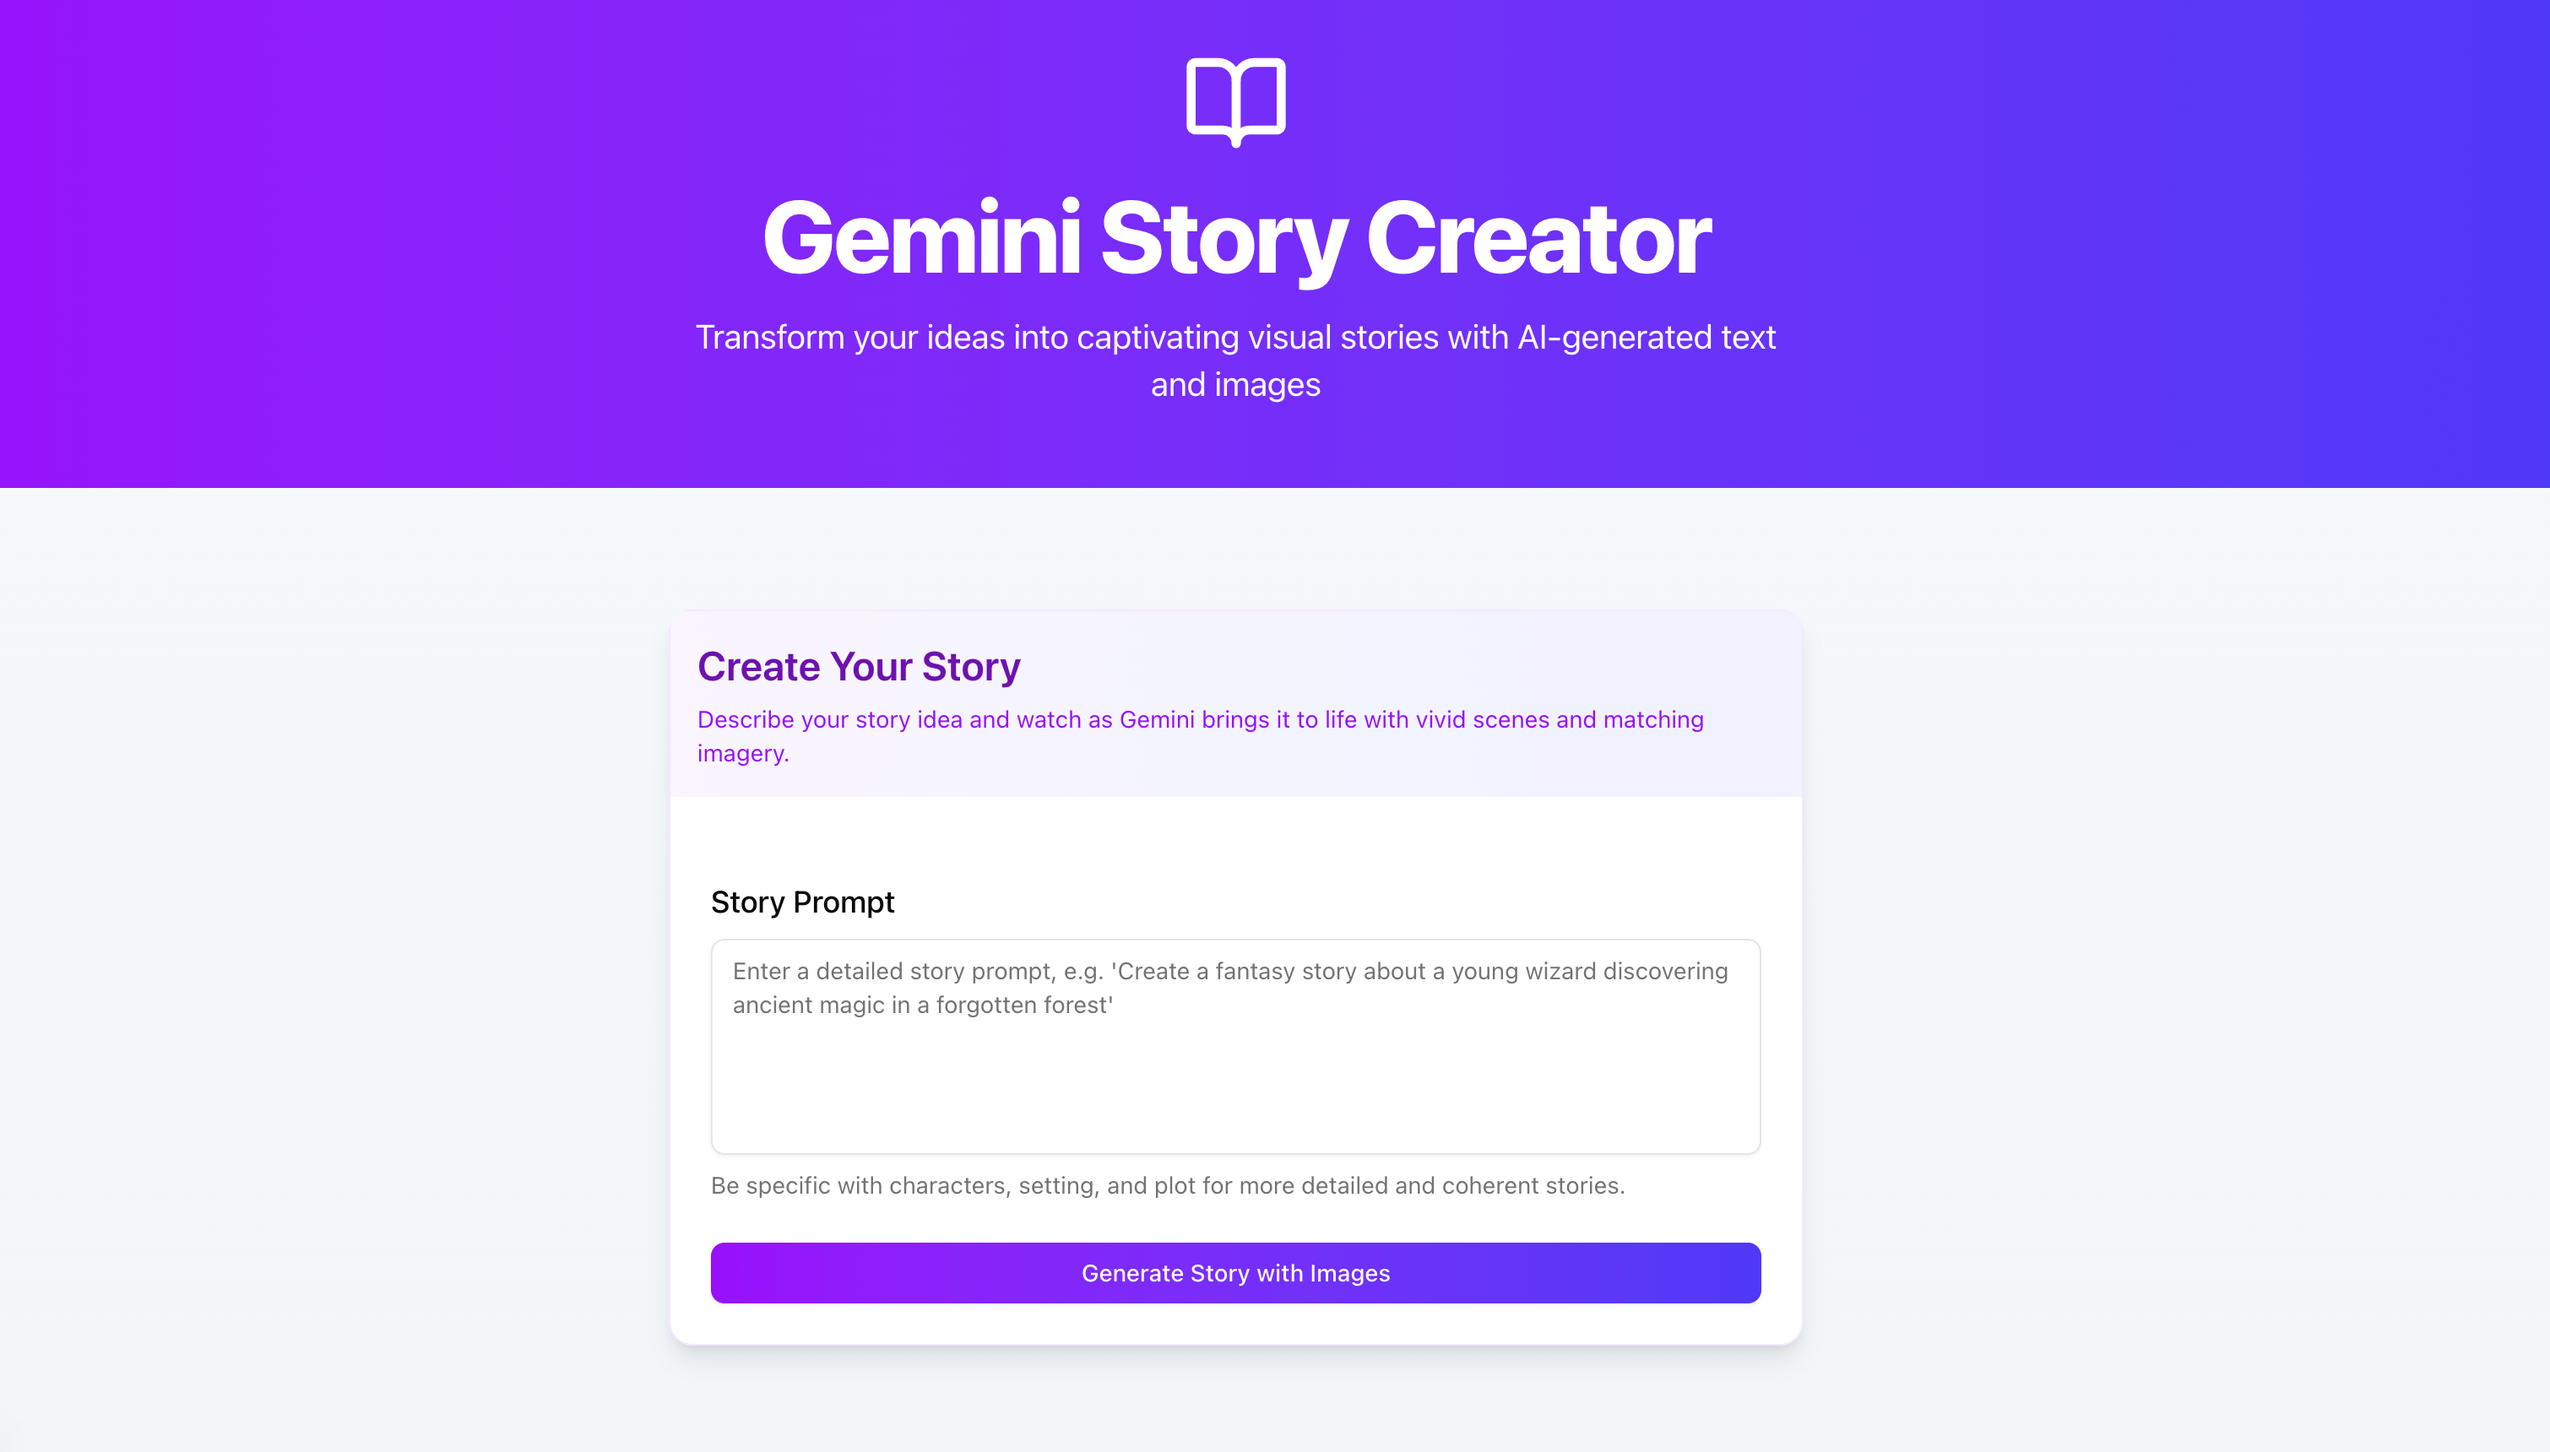
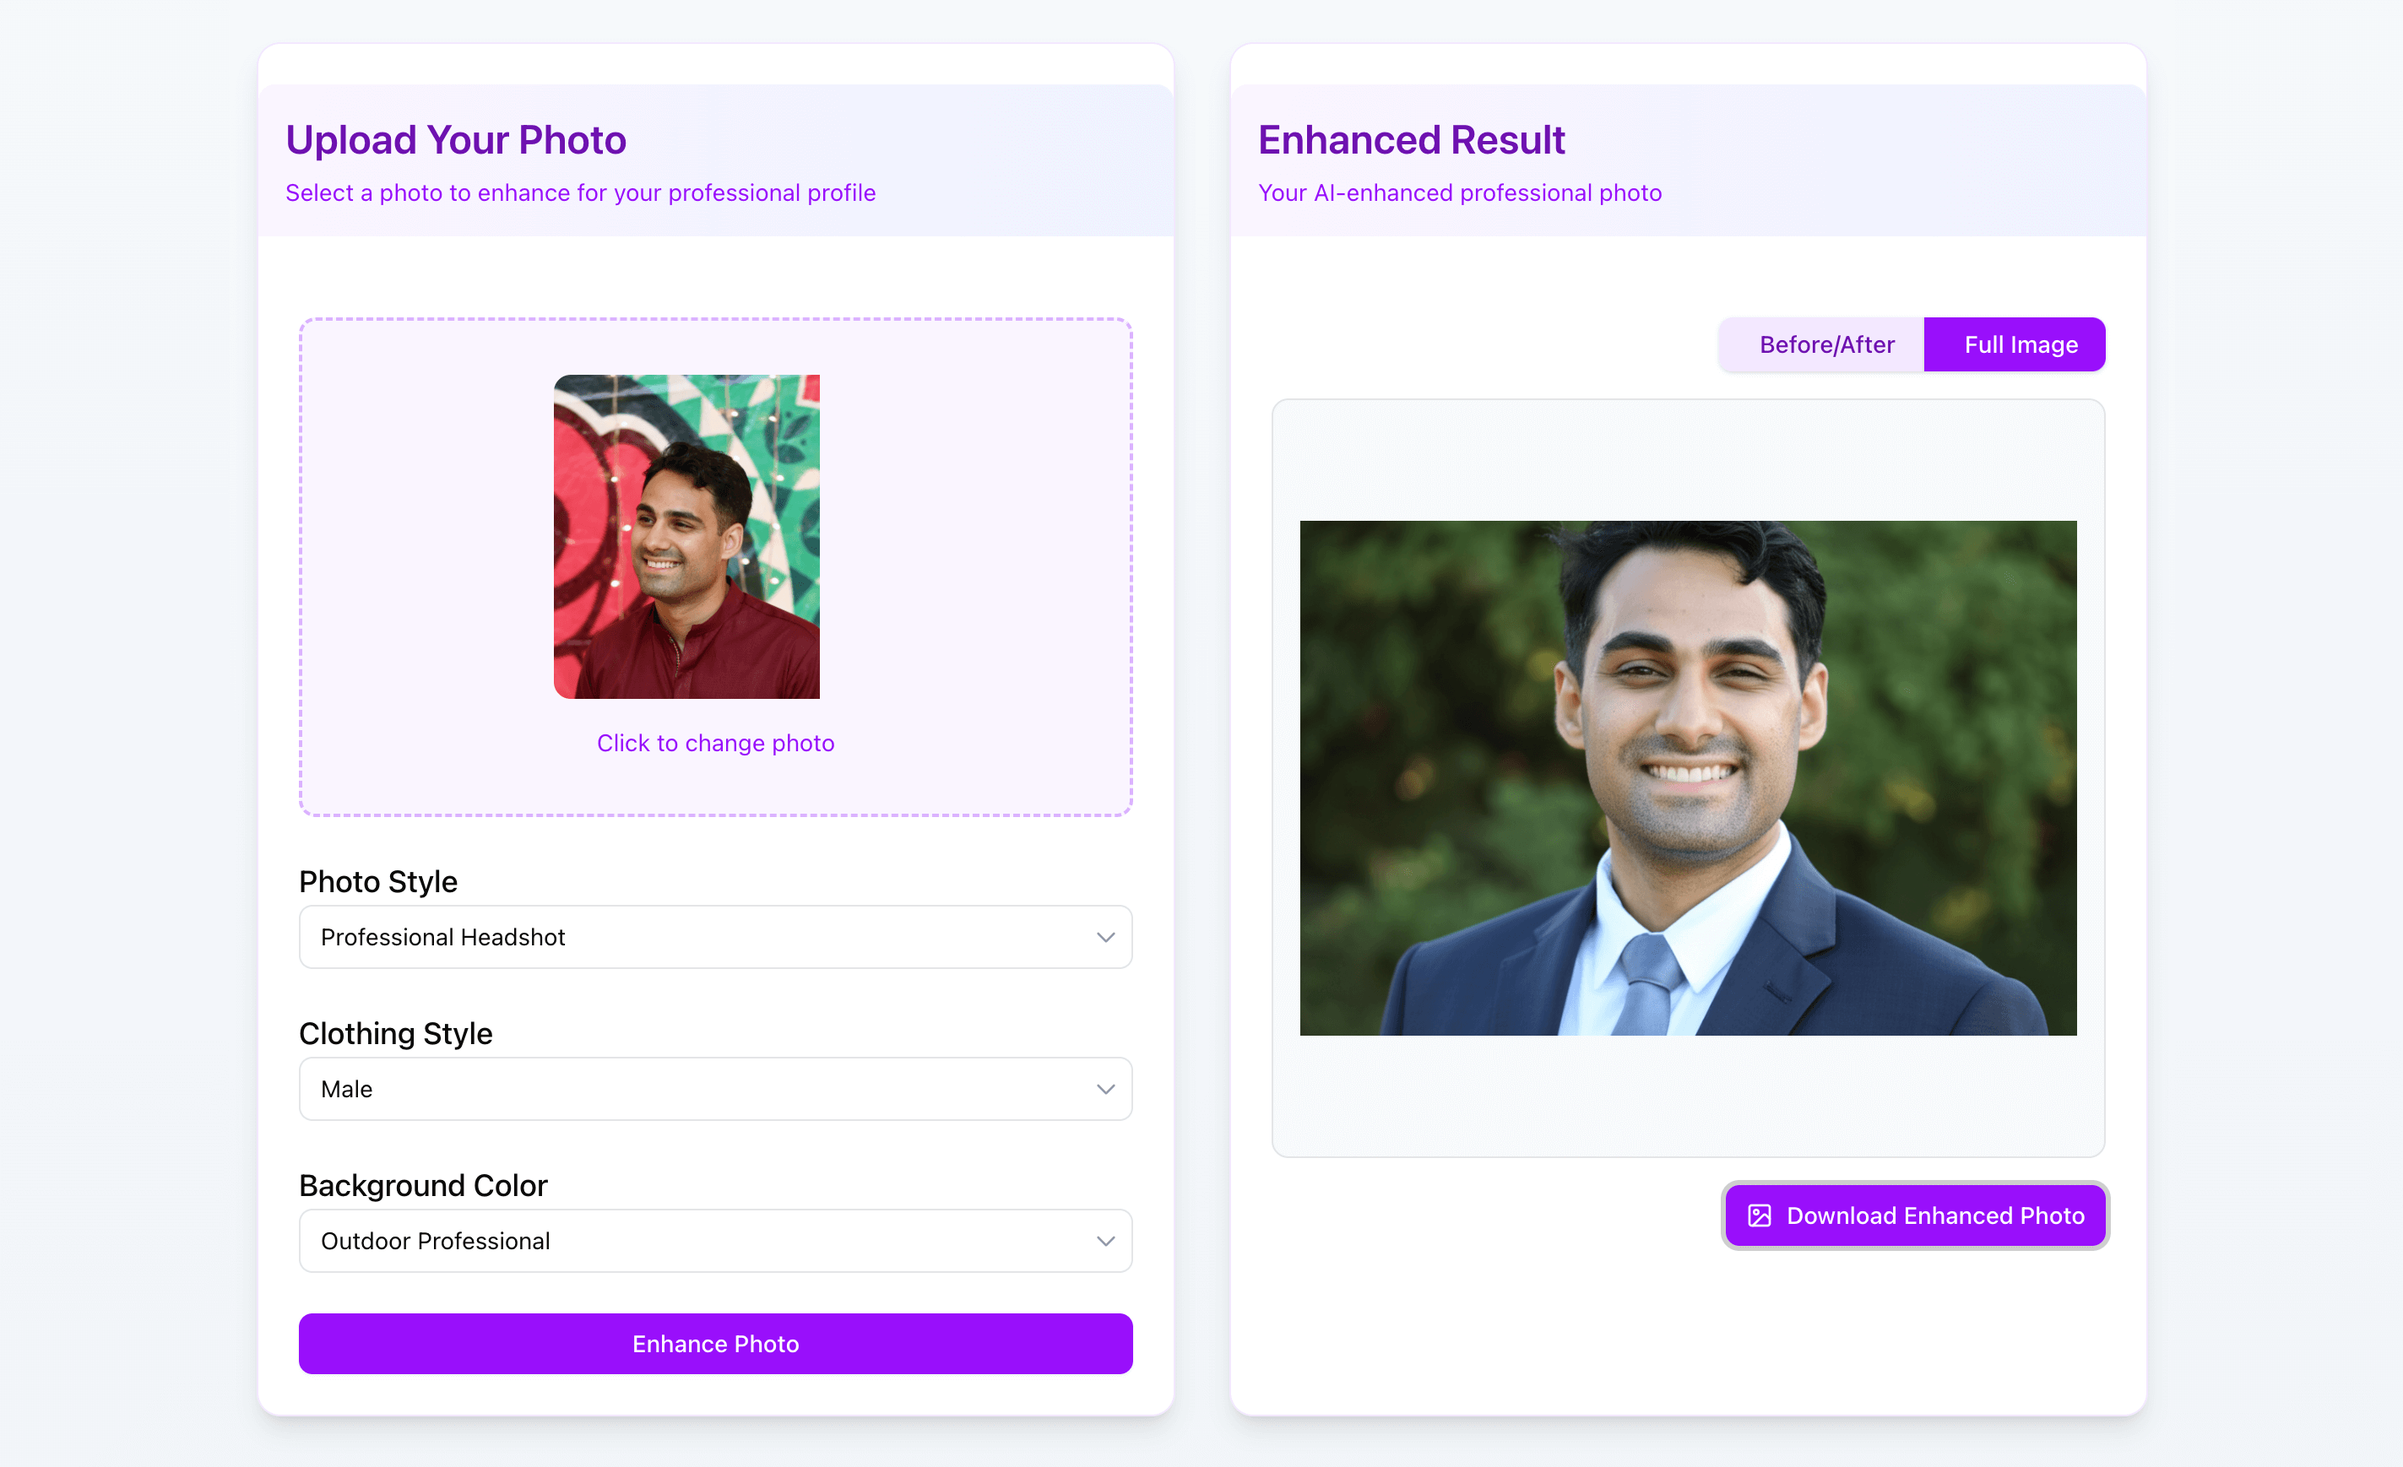
new gemini flash og

diff --git a/app/(micro)/micro/gemini-story/page.tsx b/app/(micro)/micro/gemini-story/page.tsx
@@ -1,14 +1,15 @@
-import GeminiFlashApp from './gemini-flash-client'
-import { Metadata } from 'next'
+import GeminiFlashApp from "./gemini-flash-client";
+import { Metadata } from "next";
 
 export const metadata: Metadata = {
-  title: 'Gemini Flash Experiments | Hacky Experiments',
-  description: 'Explore the capabilities of Google\'s Gemini AI with interactive demos for story creation and image enhancement.',
+  title: "Gemini Flash Experiments | Hacky Experiments",
+  description:
+    "Explore the multi-modal capabilities of Google's Gemini AI with interactive demos.",
   openGraph: {
-    images: [{ url: '/micro-experiments/gemini-story.png' }],
+    images: [{ url: "/micro-experiments/gemini-story.png" }],
   },
-}
+};
 
 export default function GeminiFlashPage() {
-  return <GeminiFlashApp />
+  return <GeminiFlashApp />;
 }

diff --git a/app/(micro)/micro/gemini-story/linkedin-photo-client.tsx b/app/(micro)/micro/gemini-story/linkedin-photo-client.tsx
@@ -472,7 +472,7 @@ export default function LinkedinPhotoConverter() {
                       <img
                         src={enhancedImageUrl}
                         alt="Enhanced LinkedIn Photo"
-                        className="w-full h-full object-cover rounded-lg"
+                        className="w-full h-full object-contain rounded-lg"
                       />
                     </div>
                   )}
